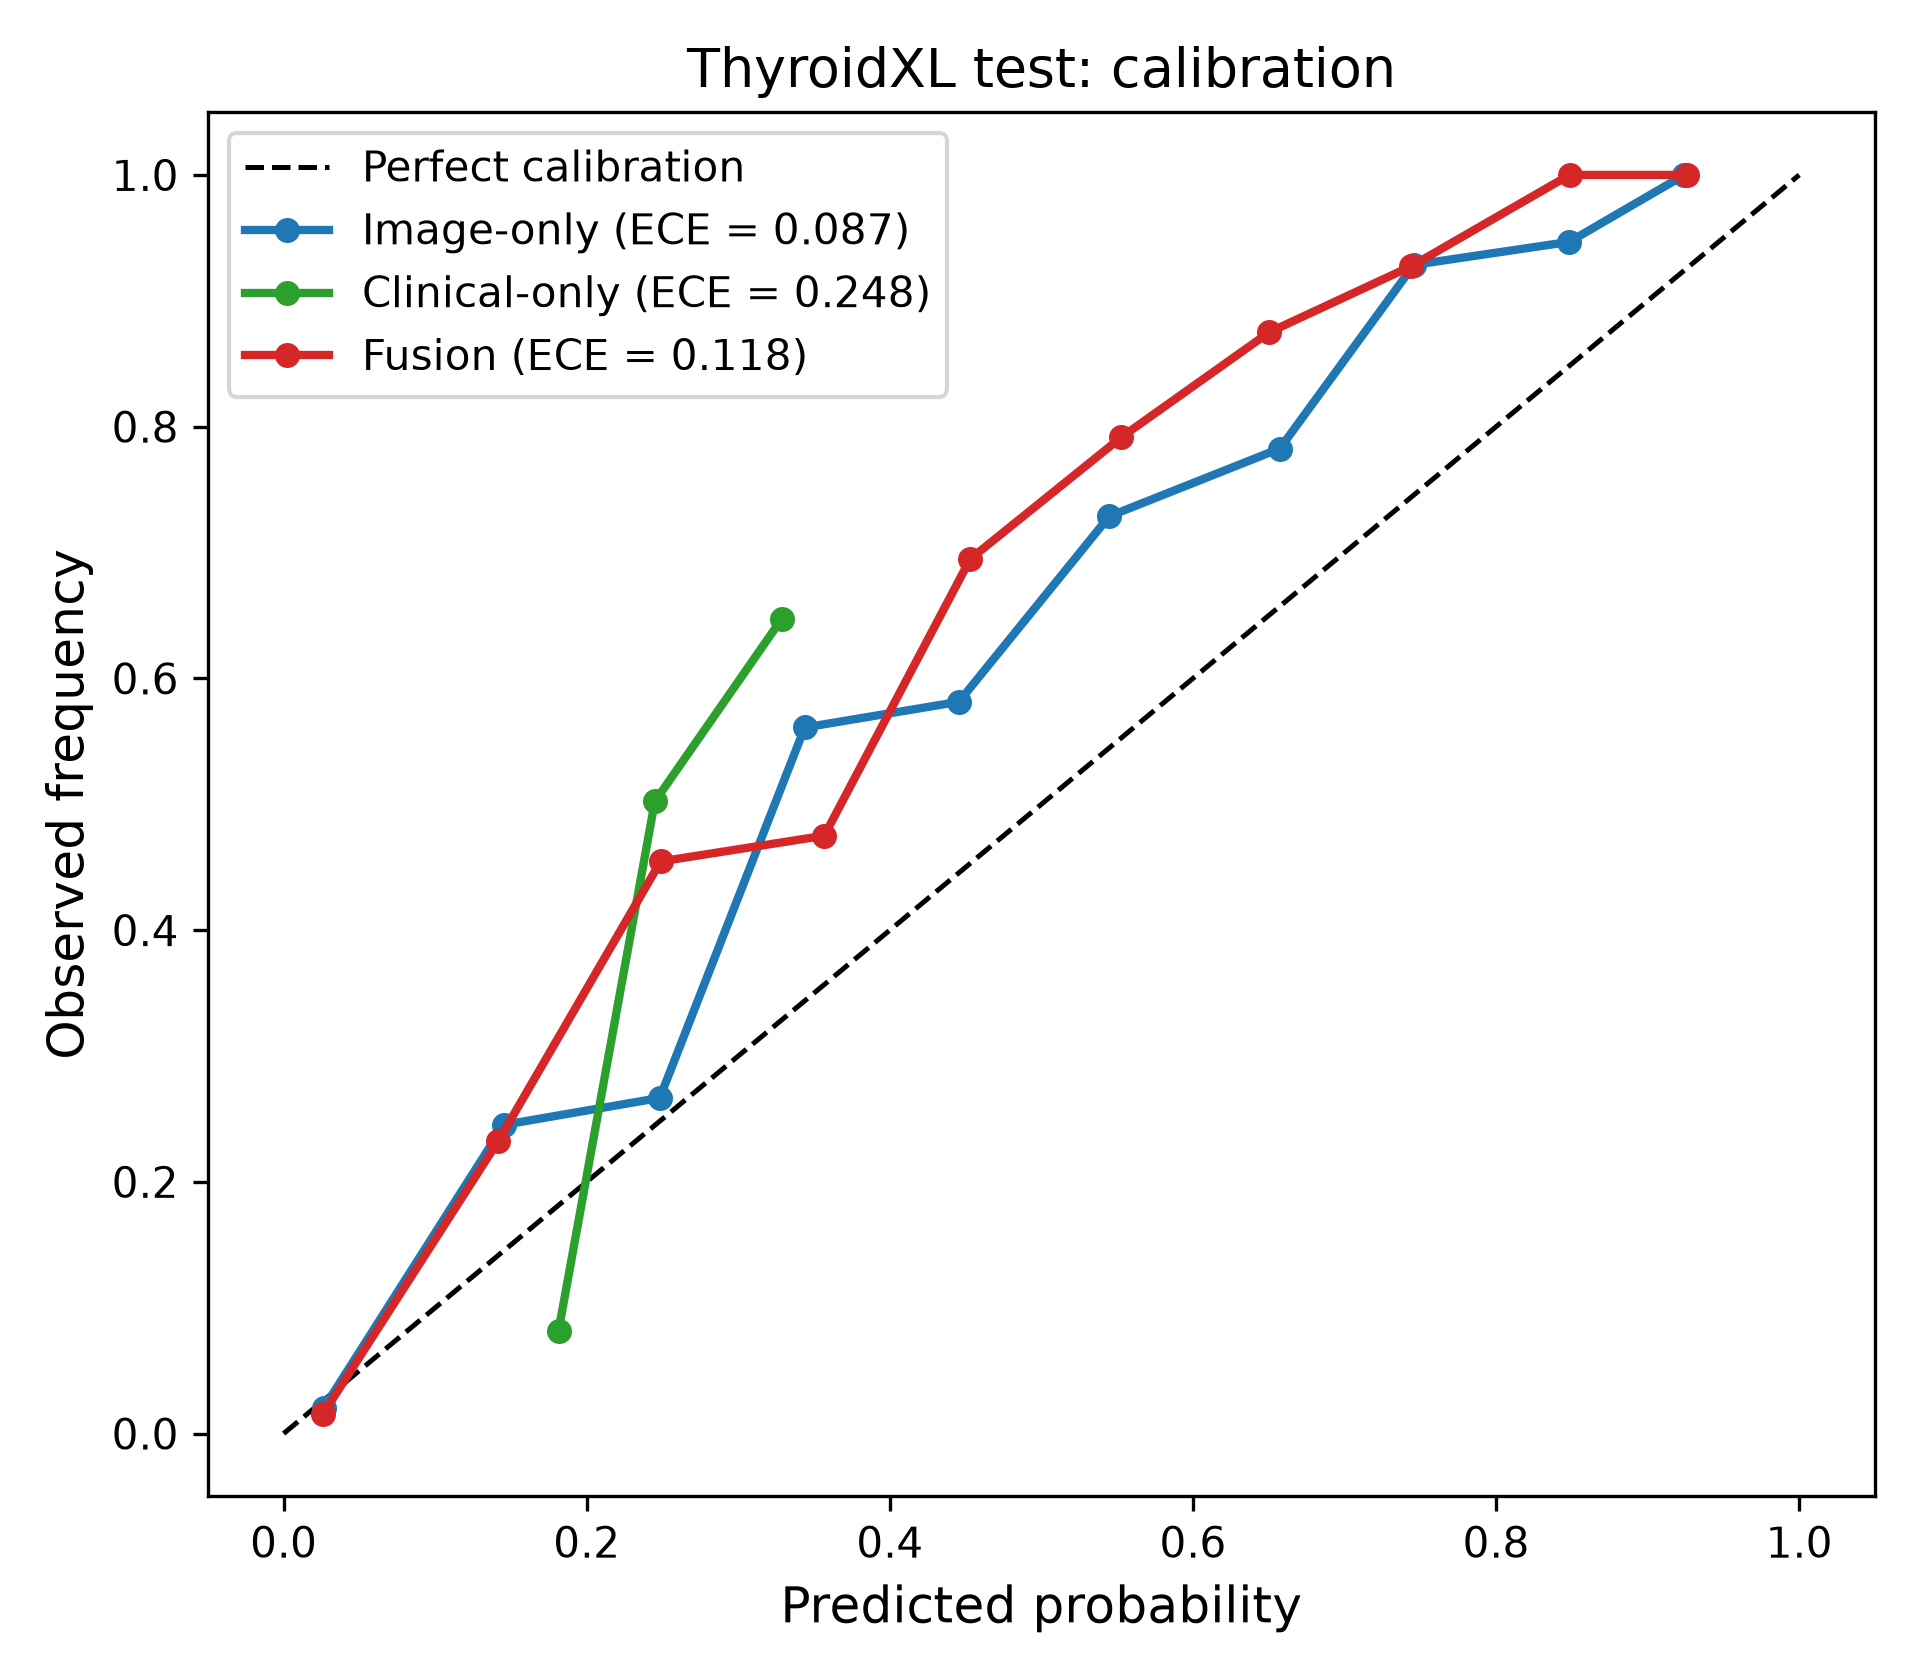
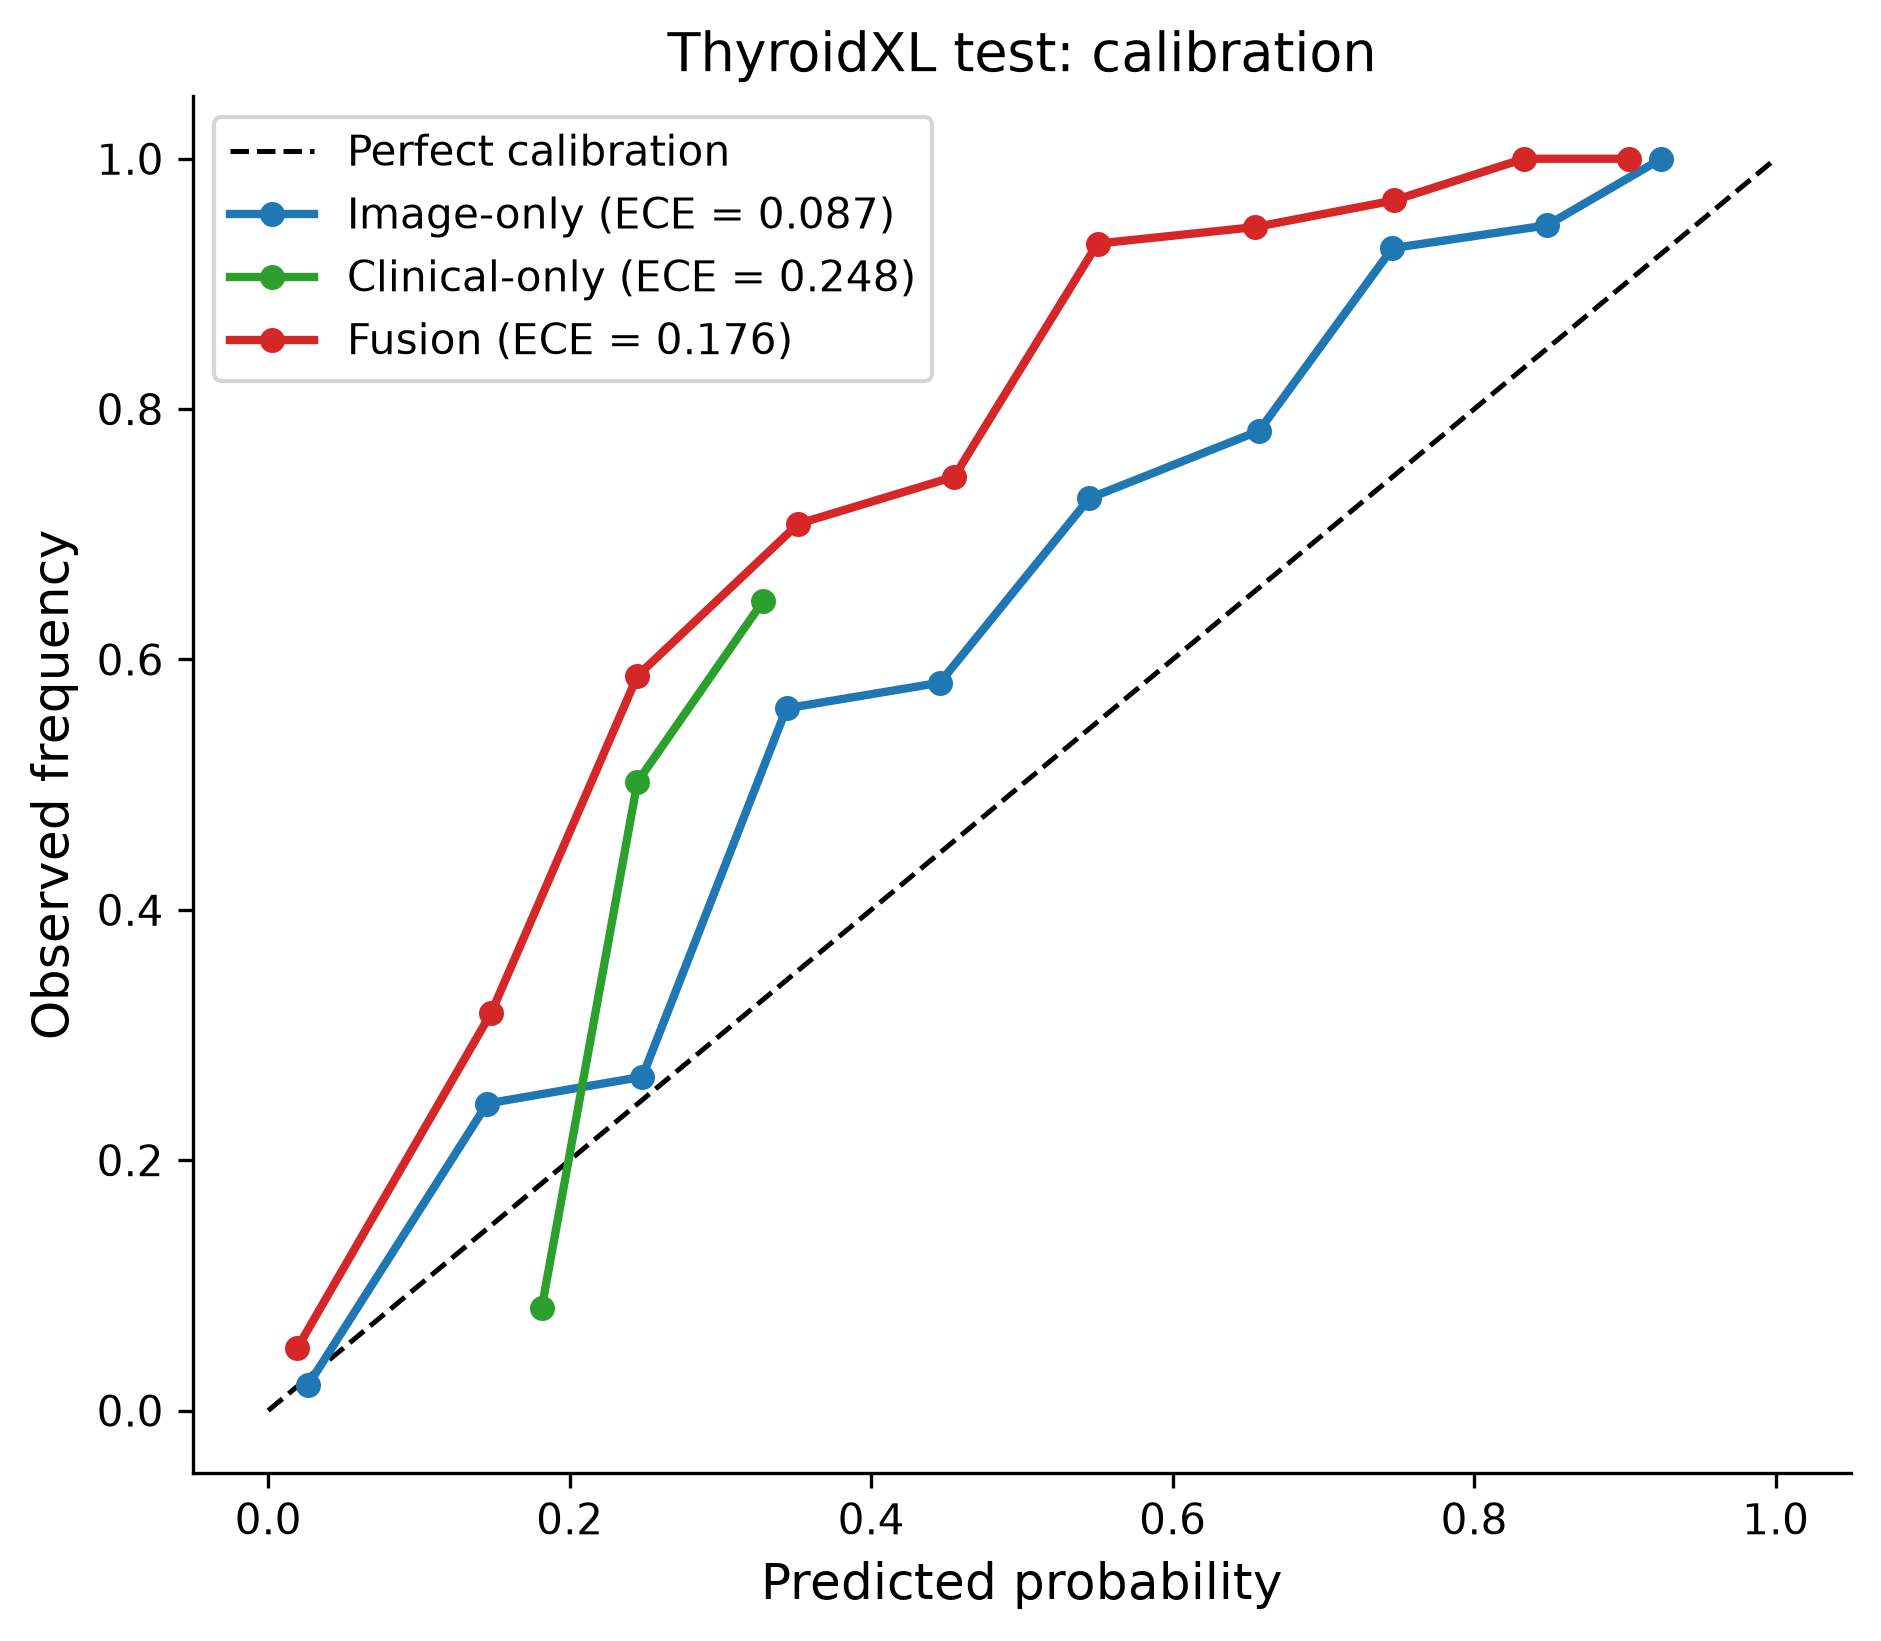
figures: unify publication style (rcParams) across all plot scripts
- consistent font/DPI/spines via shared rcParams
- consolidate to fig1-9.png standard naming

diff --git a/paper/scripts/plot_figures.py b/paper/scripts/plot_figures.py
@@ -9,6 +9,22 @@ from pathlib import Path
 import matplotlib
 matplotlib.use("Agg")
 import matplotlib.pyplot as plt
+
+# 统一出版风格
+plt.rcParams.update({
+    "font.family": "DejaVu Sans",
+    "font.size": 11,
+    "axes.titlesize": 13,
+    "axes.labelsize": 12,
+    "xtick.labelsize": 10,
+    "ytick.labelsize": 10,
+    "legend.fontsize": 10,
+    "figure.dpi": 300,
+    "savefig.dpi": 300,
+    "savefig.bbox": "tight",
+    "axes.spines.top": False,
+    "axes.spines.right": False,
+})
 import numpy as np
 import torch
 from sklearn.metrics import roc_curve, auc as sk_auc, confusion_matrix
@@ -117,46 +133,41 @@ def main():
     plt.close(fig)
     print("fig2 saved")
 
-    # ---- Fig 3a: calibration ----
+    # ---- Fig 3: calibration (a) + DCA (b) 合成图 ----
     mp1, my1, ece1 = reliability_curve(y_in, p_in)
     mp2, my2, ece2 = reliability_curve(y_ext, p_ext)
-    fig, ax = plt.subplots(figsize=(6.2, 5.6))
-    ax.plot([0, 1], [0, 1], "k--", lw=1.2, label="Perfect calibration")
-    ax.plot(mp1, my1, "o-", color="#1f77b4", lw=2, ms=6,
-            label=f"Internal (ECE = {ece1:.3f})")
-    ax.plot(mp2, my2, "s-", color="#d62728", lw=2, ms=6,
-            label=f"External (ECE = {ece2:.3f})")
-    ax.set_xlabel("Predicted probability", fontsize=12)
-    ax.set_ylabel("Observed frequency", fontsize=12)
-    ax.set_title("Calibration reliability", fontsize=13)
-    ax.legend(loc="upper left", fontsize=10)
-    fig.tight_layout()
-    fig.savefig(FIG_DIR / "fig3_calibration.png", dpi=300)
-    plt.close(fig)
-    print("fig3 saved")
-
-    # ---- Fig 3b: DCA ----
     eval_dir = PROJ / "checkpoints" / "thyroid" / "image"
     d1 = json.loads((eval_dir / "eval_tn5000_test.json").read_text(encoding="utf-8"))
     d2 = json.loads((eval_dir / "eval_tn3k_test.json").read_text(encoding="utf-8"))
-    fig, ax = plt.subplots(figsize=(6.2, 5.6))
     pt1 = [c["threshold"] for c in d1["decision_curve"]]
     nb1 = [c["net_benefit"] for c in d1["decision_curve"]]
     pt2 = [c["threshold"] for c in d2["decision_curve"]]
     nb2 = [c["net_benefit"] for c in d2["decision_curve"]]
-    ax.plot(pt1, nb1, lw=2, color="#1f77b4", label="Internal test")
-    ax.plot(pt2, nb2, lw=2, color="#d62728", label="External TN3K")
-    # reference: treat none
-    ax.plot([0, 1], [0, 0], "k:", lw=1, label="Treat none")
-    ax.set_xlabel("Threshold probability", fontsize=12)
-    ax.set_ylabel("Net benefit", fontsize=12)
-    ax.set_title("Decision curve analysis", fontsize=13)
-    ax.legend(loc="upper right", fontsize=10)
-    ax.set_xlim(0, 1)
+
+    fig, (ax1, ax2) = plt.subplots(1, 2, figsize=(12, 5.2))
+    # (a) calibration
+    ax1.plot([0, 1], [0, 1], "k--", lw=1.2, label="Perfect calibration")
+    ax1.plot(mp1, my1, "o-", color="#1f77b4", lw=2, ms=6,
+             label=f"Internal (ECE = {ece1:.3f})")
+    ax1.plot(mp2, my2, "s-", color="#d62728", lw=2, ms=6,
+             label=f"External (ECE = {ece2:.3f})")
+    ax1.set_xlabel("Predicted probability", fontsize=12)
+    ax1.set_ylabel("Observed frequency", fontsize=12)
+    ax1.set_title("(a) Calibration", fontsize=13)
+    ax1.legend(loc="upper left", fontsize=9)
+    # (b) DCA
+    ax2.plot(pt1, nb1, lw=2, color="#1f77b4", label="Internal test")
+    ax2.plot(pt2, nb2, lw=2, color="#d62728", label="External TN3K")
+    ax2.plot([0, 1], [0, 0], "k:", lw=1, label="Treat none")
+    ax2.set_xlabel("Threshold probability", fontsize=12)
+    ax2.set_ylabel("Net benefit", fontsize=12)
+    ax2.set_title("(b) Decision curves", fontsize=13)
+    ax2.legend(loc="upper right", fontsize=9)
+    ax2.set_xlim(0, 1)
     fig.tight_layout()
-    fig.savefig(FIG_DIR / "fig3_dca.png", dpi=300)
+    fig.savefig(FIG_DIR / "fig3.png", dpi=300)
     plt.close(fig)
-    print("fig3 dca saved")
+    print("fig3 (calibration + DCA) saved")
 
     # ---- Fig 4: confusion matrices ----
     fig, axes = plt.subplots(1, 2, figsize=(10, 4.2))

diff --git a/paper/scripts/plot_thyroidxl_fusion.py b/paper/scripts/plot_thyroidxl_fusion.py
@@ -13,6 +13,22 @@ from pathlib import Path
 import matplotlib
 matplotlib.use("Agg")
 import matplotlib.pyplot as plt
+
+# 统一出版风格
+plt.rcParams.update({
+    "font.family": "DejaVu Sans",
+    "font.size": 11,
+    "axes.titlesize": 13,
+    "axes.labelsize": 12,
+    "xtick.labelsize": 10,
+    "ytick.labelsize": 10,
+    "legend.fontsize": 10,
+    "figure.dpi": 300,
+    "savefig.dpi": 300,
+    "savefig.bbox": "tight",
+    "axes.spines.top": False,
+    "axes.spines.right": False,
+})
 import numpy as np
 import torch
 from torch.utils.data import DataLoader
